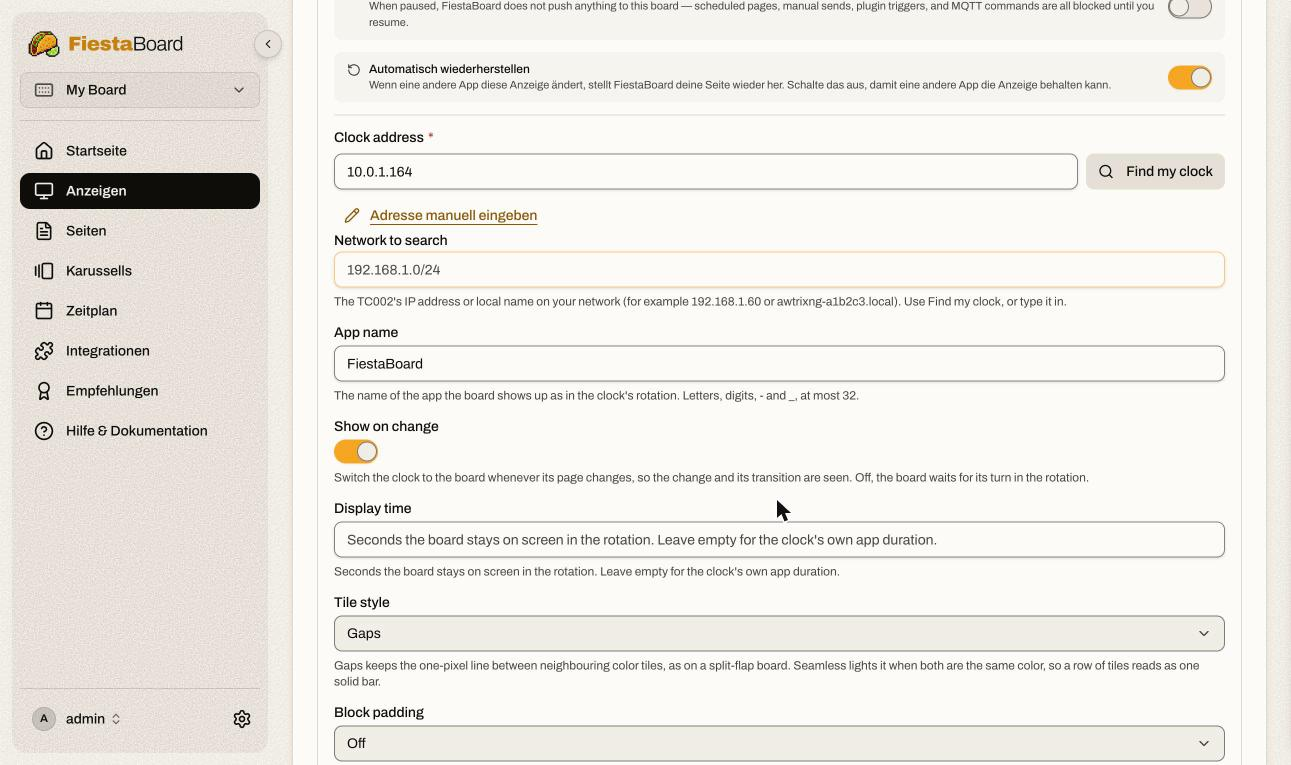
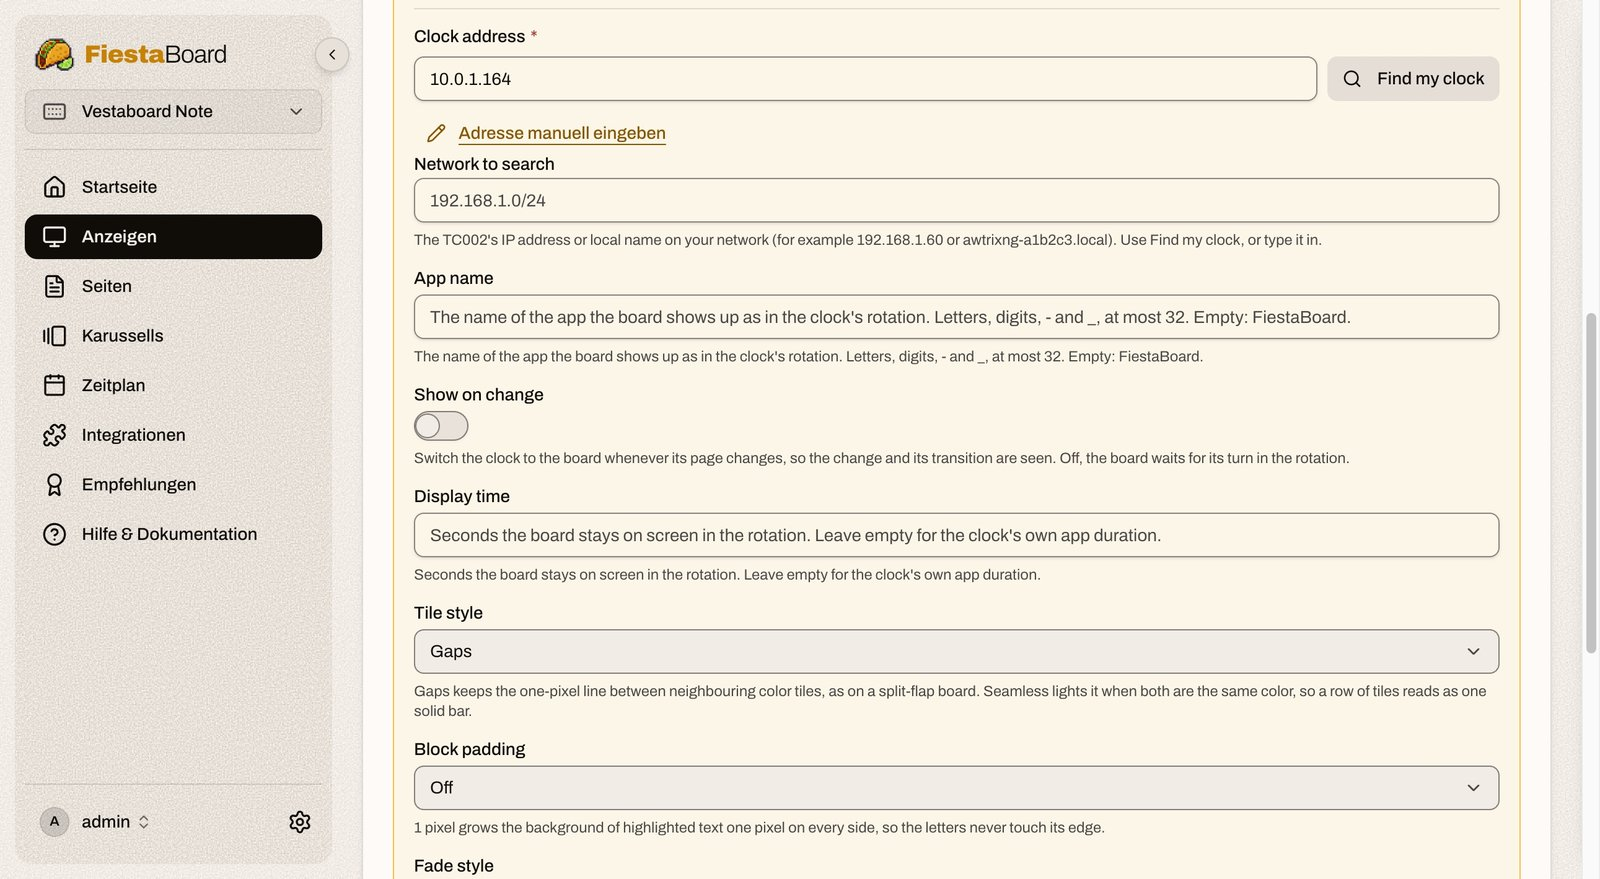
README: new screenshots with the display called Ulanzi TC002
Claude-Session: https://claude.ai/code/session_01FXXeyGX9nkbXjdAycGNCsJ

diff --git a/README.md b/README.md
@@ -57,9 +57,9 @@ cannot draw the full-size layouts the plugin sends.
 6. Make a page for the clock (see [Pages for the clock](#pages-for-the-clock))
    and put it on the board. The clock switches to the app and shows it.
 
-<img src="docs/display-settings.jpg" alt="FiestaBoard's settings of an AWTRIX NG display: name, Pause sends, Restore automatically, Clock address with Find my clock" width="760">
+<img src="docs/display-settings.jpg" alt="FiestaBoard's settings of the Ulanzi TC002 display, paused: name, Resume sends, Restore automatically, Clock address with Find my clock" width="760">
 
-<img src="docs/display-settings-plugin.jpg" alt="The plugin's own settings below: Network to search, App name FiestaBoard, Show on change on, Display time, Tile style, Block padding" width="760">
+<img src="docs/display-settings-plugin.jpg" alt="The plugin's own settings below: Network to search, App name, Show on change, Display time, Tile style, Block padding" width="760">
 
 ## Pages for the clock
 
@@ -72,7 +72,7 @@ To make one, open **Pages → New page** and choose **Ulanzi TC002**
 in the menu beside **Preview**. The preview then shows the clock's LED grid,
 and the editor counts 13 characters a row.
 
-<img src="docs/page-editor.jpg" alt="A new page in FiestaBoard with AWTRIX NG chosen as its size: the template {{= word_clock.block }} and an LED preview reading ES IST VIERTEL VOR ELF with a red heart" width="760">
+<img src="docs/page-editor.jpg" alt="A new page in FiestaBoard with the Ulanzi TC002 chosen as its size: the template {{= word_clock.block }} and an LED preview reading ES IST FUENF NACH HALB ZWEI with four red hearts" width="760">
 
 A plugin that lays out its own block for the board it is shown on fills the
 13 columns by itself: `{{= word_clock.block }}` above, or the Netatmo
